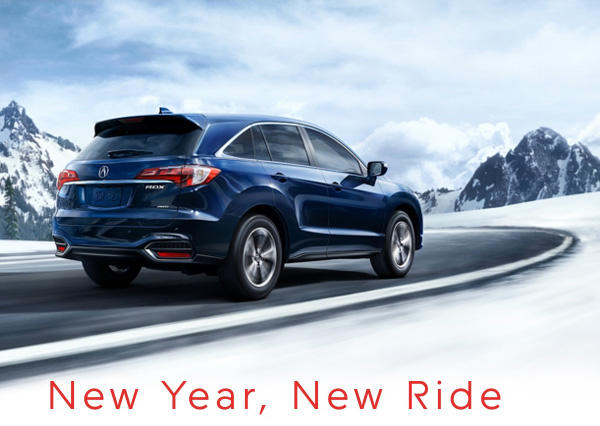
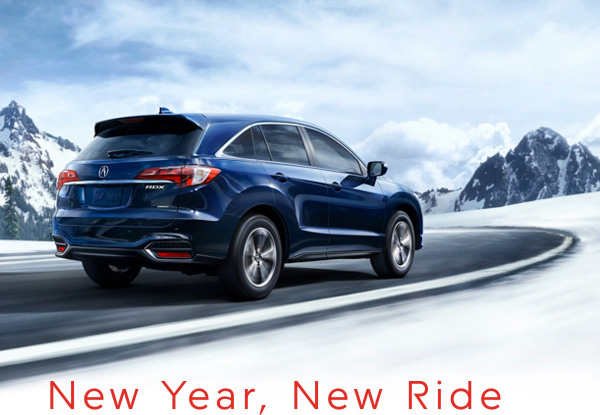
Reworked some of the design production. Discovered Outlook rendering was never perfect to begin with, but there's way to make it less pronounced via design w/ darker backgrounds.

diff --git a/review.web/Content/Review/rdx-presidents-day_20180208.html b/review.web/Content/Review/rdx-presidents-day_20180208.html
@@ -263,12 +263,9 @@
                               <tr>
                                 <td>
                                   <a style="margin:0; padding:0; border:none; outline:none; text-decoration:none;" target="_blank" href="https://www.acura.com/rdx/?SP_RID=%%RECIPIENT_ID%%&SP_MID=%%MAILING_ID%%&PROGRAMID=%%PROGID%%&CAMPAIGNCODE=%%CAMPAIGNCODE%%&OFFERCODE=%%OFFERCODE%%&CELLCODE=%%CELL%%&PID=%%PID%%&LINKNAME=%%LINK_NAME%%">
-                                    <img style="margin:0 auto;padding:0;border:none !important;outline:none !important;display:block;text-align:center; font-family:Helvetica, Arial, 'Lucida Grande', sans-serif; color:white; font-size:40px;" width="600" height="426" alt="The 2018 RDX - New Year, New Ride" src="rdx-presidents-day_20180208/hero.jpg" />
+                                    <img style="margin:0 auto;padding:0;border:none !important;outline:none !important;display:block;text-align:center; font-family:Helvetica, Arial, 'Lucida Grande', sans-serif; color:white; font-size:20px;" width="600" height="415" alt="The 2018 RDX - New Year, New Ride" src="rdx-presidents-day_20180208/hero.jpg" />
                                   </a>
                                 </td>
-                              </tr>
-                              <tr>
-                                <td style="height:10px;" height="10"><img class="spacer col-space-content-container" style="margin:0 auto;padding:0;border:none !important;outline:none !important;display:block;text-align:center;" src="rdx-presidents-day_20180208/spacer.png" height="10" width="100%" /></td>
                               </tr>
                               <tr>
                                 <td align="center" valign="top">
@@ -277,7 +274,9 @@
                                       <tr>
                                         <td style="width:50px;" width="50"><img class="spacer col-space-content-container" style="margin:0 auto;padding:0;border:none !important;outline:none !important;display:block;text-align:center;" src="rdx-presidents-day_20180208/spacer.png" height="1" width="50">
                                         </td>
-                                        <td class="content-container-cell" style="font-family:Helvetica, Arial, 'Lucida Grande', sans-serif; font-size: 16px; line-height: 32px; color: #000">Remarkable handling and agility combined with spaciousness and comfort make the Acura RDX one amazing ride. And with equally amazing finance and lease offers currently available, now's your chance to drive one for less. But you'd better hurry — the savings end on February 28th.</td>
+                                        <td class="content-container-cell" style="font-family:Helvetica, Arial, 'Lucida Grande', sans-serif; font-size: 16px; line-height: 32px; color: #000">
+                                          <img class="spacer line-space-large" style="margin:0 auto;padding:0;border:none !important;outline:none !important;display:block;text-align:center;width:1px;" src="rdx-presidents-day_20180208/spacer.png" height="15" width="1" />
+                                          Remarkable handling and agility combined with spaciousness and comfort make the Acura RDX one amazing ride. And with equally amazing finance and lease offers currently available, now's your chance to drive one for less. But you'd better hurry — the savings end on February 28th.</td>
                                         <td style="width:50px;" width="50"><img class="spacer col-space-content-container" style="margin:0 auto;padding:0;border:none !important;outline:none !important;display:block;text-align:center;" src="rdx-presidents-day_20180208/spacer.png" height="1" width="50" >
                                         </td>
                                       </tr>
@@ -651,7 +650,7 @@
         <table class="content-container" width="600" cellpadding="0" cellspacing="0" border="0" bgcolor="#FFFFFF" style="min-width:600px !important; max-width:600px !important;">
           <tbody><tr><td align="center">
             <div style="margin: 0 auto; padding:0; width: 600px; box-sizing: border-box; border-collapse: collapse; display:inline-block; font-size:0;">
-              <img class="graphic-cta" width="100%" height="405" src="rdx-presidents-day_20180208/make-the-rdx-yours.png" alt="2018 RDX - Make The RDX Yours" style="width:100%; font-size:0; height: auto;margin:0 auto; padding:0;border:none !important;outline:none !important;display:block;text-align:center;font-family:Helvetica, Arial, 'Lucida Grande', sans-serif; color:black; font-size:30px;">
+              <img class="graphic-cta" width="600" height="385" src="rdx-presidents-day_20180208/make-the-rdx-yours.png" alt="2018 RDX - Make The RDX Yours" style="width:100%; font-size:0; height: auto;margin:0 auto; padding:0;border:none !important;outline:none !important;display:block;text-align:center;font-family:Helvetica, Arial, 'Lucida Grande', sans-serif; color:black; font-size:30px;">
               <table width="84.1666667%" border="0" cellpadding="0" cellspacing="0" align="center" style=" margin-right: auto; margin-left: auto;">
                 <tbody><tr><td valign="top" align="center">
                     <table width="84.1666667%" border="0" cellpadding="0" cellspacing="0" align="center">
